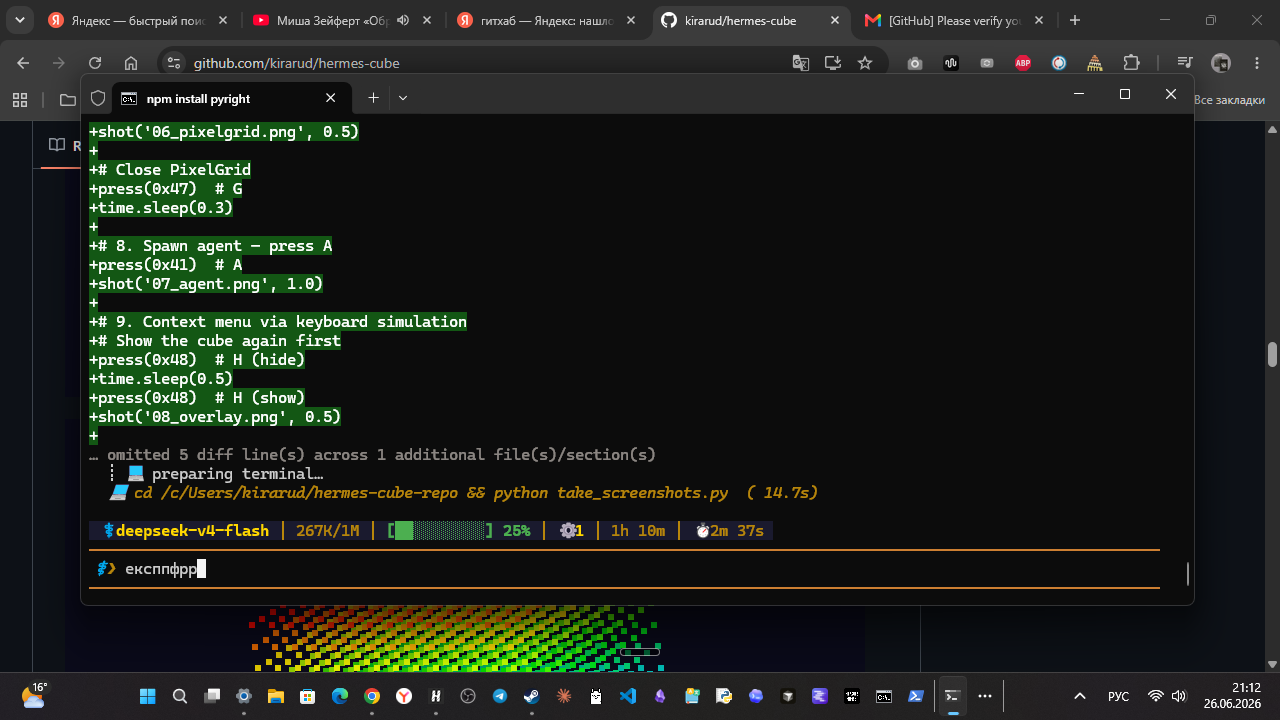
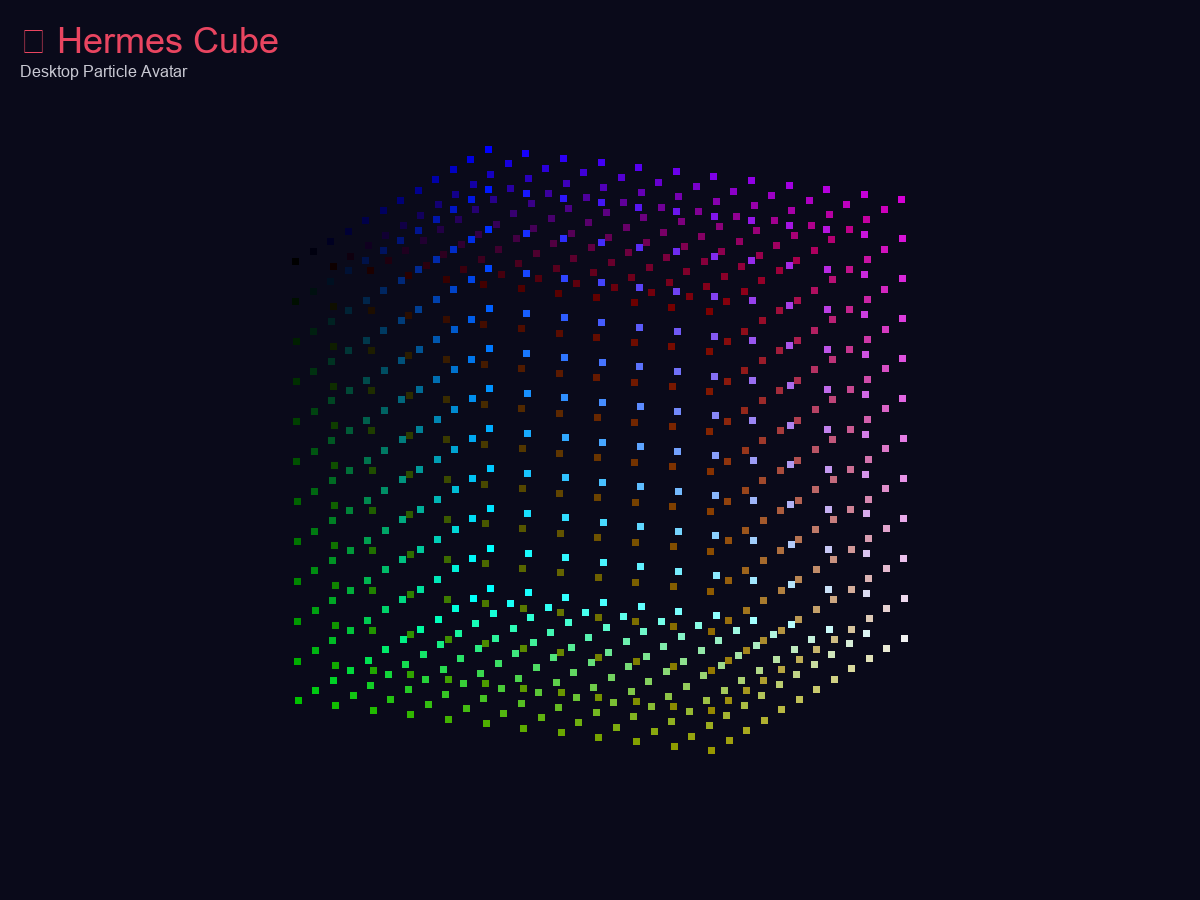
feat: чистые рендеры куба — 5 форм, анимации, морфинг, AI, density, char mode

diff --git a/render_screenshots.py b/render_screenshots.py
@@ -1,0 +1,224 @@
+#!/usr/bin/env python3
+"""Headless screenshot generator for Hermes Cube.
+
+Uses CubeEngine directly (no tkinter, no window, no desktop capture).
+Cycles all shapes × animation modes, creates clean composite grids.
+"""
+
+import os, sys, math, numpy as np
+from PIL import Image, ImageDraw, ImageFont
+from typing import Dict, Any, List, Tuple
+
+# Clean import — cube_app runs _check_single_instance() but that's fine here
+os.environ['DISPLAY'] = ''  # ensure no display needed
+sys.path.insert(0, os.path.dirname(os.path.abspath(__file__)))
+# Remove lock so import doesn't exit
+lock = os.path.join(os.environ.get('TEMP', '/tmp'), 'hermes_cube.lock')
+if os.path.exists(lock):
+    os.remove(lock)
+
+from cube_app import (
+    CubeEngine, MIN_DENSITY, MAX_DENSITY, DEFAULT_CONFIG,
+    SHAPE_GENERATORS, PARTICLE_ANIMATORS,
+)
+
+OUT = os.path.join(os.path.dirname(os.path.abspath(__file__)), 'screenshots')
+os.makedirs(OUT, exist_ok=True)
+
+# ── Theme ─────────────────────────────────────────────────────────────
+BG = (10, 10, 26)
+LABEL = (200, 200, 210)
+ACCENT = (233, 69, 96)
+WHITE = (255, 255, 255)
+
+def _get_font(size: int):
+    try:
+        return ImageFont.truetype("arial.ttf", size)
+    except Exception:
+        return ImageFont.load_default()
+
+
+def render_frame(
+    engine: CubeEngine,
+    config: Dict[str, Any],
+    w: int = 800,
+    h: int = 600,
+    t: float = 0.0,
+    cell_size: int = 5,
+) -> Image.Image:
+    """Render one cube frame → PIL image. Mirrors cube_app._render_frame()."""
+    pts3d, pulse = engine.get_frame(t, config)
+
+    scale = (min(w, h) * config.get('cube_scale', 0.27)
+             / (1.0 + config.get('pulse_amplitude', 0.12))
+             * pulse)
+    cx = w / 2.0
+    cy = h / 2.0
+
+    px = pts3d[:, 0] * scale + cx
+    py = pts3d[:, 1] * scale + cy
+    pz = pts3d[:, 2]
+
+    order = np.argsort(pz)
+    px, py, pz = px[order], py[order], pz[order]
+
+    depth = 0.6 + 0.4 * (pz + 1.0) / 2.0
+    r = np.clip(engine.r0[order] * depth, 0, 255).astype(int)
+    g = np.clip(engine.g0[order] * depth, 0, 255).astype(int)
+    b = np.clip(engine.b0[order] * depth, 0, 255).astype(int)
+
+    cs = max(2, cell_size)
+    img = Image.new('RGBA', (w, h), BG + (255,))
+    draw = ImageDraw.Draw(img)
+    for i in range(len(px)):
+        x, y = int(px[i]), int(py[i])
+        if 0 <= x < w and 0 <= y < h:
+            draw.rectangle([x - cs//2, y - cs//2, x + cs//2, y + cs//2],
+                          fill=(int(r[i]), int(g[i]), int(b[i]), 255))
+    return img
+
+
+def label(img: Image.Image, text: str, xy=(20, 20), color=ACCENT, size=28):
+    draw = ImageDraw.Draw(img)
+    draw.text(xy, text, fill=color + (255,), font=_get_font(size))
+
+
+def grid_render(
+    engine: CubeEngine,
+    shapes: List[str],
+    anims: List[str],
+    config: Dict[str, Any],
+    cell: int = 300,
+) -> Image.Image:
+    """Grid of shape rows × animation columns."""
+    rows, cols = len(shapes), len(anims)
+    img = Image.new('RGBA', (cols * cell, rows * cell), BG + (255,))
+    for ri, shp in enumerate(shapes):
+        for ci, anm in enumerate(anims):
+            cfg = dict(config)
+            cfg['shape_preset'] = shp
+            cfg['particle_mode'] = anm
+            sub = render_frame(engine, cfg, cell, cell, t=0.0)
+            sx, sy = ci * cell, ri * cell
+            img.paste(sub, (sx, sy), sub)
+            d = ImageDraw.Draw(img)
+            if ci == 0:
+                d.text((sx + 6, sy + 6), shp, fill=LABEL + (255,), font=_get_font(12))
+            if ri == 0:
+                d.text((sx + 6, sy + cell - 20), anm, fill=LABEL + (255,), font=_get_font(12))
+    return img
+
+
+# ═══════════════════════════════════════════════════════════════════════
+# GENERATE
+# ═══════════════════════════════════════════════════════════════════════
+
+SHAPES = ['cube', 'sphere', 'torus', 'dna', 'metaball']
+ANIMS = ['off', 'wave', 'breathe', 'orbit', 'geyser']
+CHARS = ['dots', 'symbols', 'words', 'glow']
+MORTH_TARGETS = ['sphere', 'torus', 'dna', 'metaball']
+MORPH_STEPS = [0.0, 0.25, 0.5, 0.75, 1.0]
+DENSITIES = [8, 12, 16, 20]
+
+engine = CubeEngine(12)
+print("Rendering screenshots...\n")
+
+# ── 1. Hero — large standalone ───────────────────────────────────────
+img = render_frame(engine, DEFAULT_CONFIG, 1200, 900, t=1.5, cell_size=6)
+label(img, '♢ Hermes Cube', xy=(20, 20), size=36)
+label(img, 'Desktop Particle Avatar', xy=(20, 62), color=LABEL, size=16)
+img.save(os.path.join(OUT, 'hero.png'))
+print("  hero.png")
+
+# ── 2. All 5 shapes ──────────────────────────────────────────────────
+sg = grid_render(engine, SHAPES, ['off'], DEFAULT_CONFIG, cell=400)
+sg.save(os.path.join(OUT, 'shapes.png'))
+print("  shapes.png  — 5 shape presets")
+
+# ── 3. All 5 animation modes ─────────────────────────────────────────
+ag = grid_render(engine, ['cube'], ANIMS, DEFAULT_CONFIG, cell=400)
+ag.save(os.path.join(OUT, 'animations.png'))
+print("  animations.png  — 5 animation modes")
+
+# ── 4. Full 5×5 matrix ───────────────────────────────────────────────
+mx = grid_render(engine, SHAPES, ANIMS, DEFAULT_CONFIG, cell=250)
+label(mx, 'Формы × Анимации', xy=(20, 20), size=24)
+mx.save(os.path.join(OUT, 'matrix.png'))
+print("  matrix.png  — 5×5 shape × animation grid")
+
+# ── 5. Morph ─────────────────────────────────────────────────────────
+mc = len(MORPH_STEPS)
+mr = len(MORTH_TARGETS)
+morph = Image.new('RGBA', (mc * 260, mr * 260 + 40), BG + (255,))
+for ti, target in enumerate(MORTH_TARGETS):
+    for mi, m in enumerate(MORPH_STEPS):
+        cfg = dict(DEFAULT_CONFIG)
+        cfg['shape_preset'] = target
+        cfg['morph_progress'] = m
+        sub = render_frame(engine, cfg, 260, 260, t=0.5)
+        sx, sy = mi * 260, ti * 260 + 40
+        morph.paste(sub, (sx, sy), sub)
+        d = ImageDraw.Draw(morph)
+        if ti == 0:
+            d.text((sx + 6, sy + 260 - 20), f'{int(m*100)}%', fill=LABEL + (255,), font=_get_font(11))
+        if mi == 0:
+            d.text((sx + 6, sy + 6), target, fill=LABEL + (255,), font=_get_font(11))
+label(morph, 'Морфинг: куб → форма', xy=(20, 20), size=24)
+morph.save(os.path.join(OUT, 'morph.png'))
+print("  morph.png  — morph 0-100%")
+
+# ── 6. AI mode ───────────────────────────────────────────────────────
+cfg = dict(DEFAULT_CONFIG)
+cfg['pulse_rate'] = 2.5
+cfg['rotation_speed'] = 0.4
+ai = render_frame(engine, cfg, 800, 600, t=2.0, cell_size=5)
+label(ai, 'AI-режим', size=28)
+label(ai, 'Напиши C — куб ответит и изменит настроение', xy=(20, 56), color=LABEL, size=14)
+ai.save(os.path.join(OUT, 'ai.png'))
+print("  ai.png  — AI chat concept")
+
+# ── 7. Density comparison ────────────────────────────────────────────
+dc = len(DENSITIES)
+density = Image.new('RGBA', (dc * 350, 350), BG + (255,))
+for di, dens in enumerate(DENSITIES):
+    eng = CubeEngine(dens)
+    sub = render_frame(eng, DEFAULT_CONFIG, 350, 350, t=0.5)
+    sx = di * 350
+    density.paste(sub, (sx, 0), sub)
+    d = ImageDraw.Draw(density)
+    d.text((sx + 6, 350 - 22), f'density={dens}', fill=LABEL + (255,), font=_get_font(12))
+label(density, 'Плотность частиц', size=24)
+density.save(os.path.join(OUT, 'density.png'))
+print("  density.png  — density variation")
+
+# ── 8. Each shape × wave animation ───────────────────────────────────
+for shape in SHAPES:
+    cfg = dict(DEFAULT_CONFIG)
+    cfg['shape_preset'] = shape
+    cfg['particle_mode'] = 'wave'
+    img = render_frame(engine, cfg, 800, 600, t=0.0, cell_size=5)
+    label(img, f'♢ {shape}', size=32)
+    img.save(os.path.join(OUT, f'{shape}.png'))
+    print(f"  {shape}.png")
+
+# ── 9. Char modes ────────────────────────────────────────────────────
+for cm in CHARS:
+    cfg = dict(DEFAULT_CONFIG)
+    cfg['char_mode'] = cm
+    cfg['shape_preset'] = 'sphere'
+    img = render_frame(engine, cfg, 800, 600, t=1.0)
+    label(img, f'Char: {cm}', size=24)
+    img.save(os.path.join(OUT, f'char_{cm}.png'))
+    print(f"  char_{cm}.png")
+
+# ── Clean up old real screenshots ─────────────────────────────────────
+old_real = ['idle.png', 'settings.png', 'draggable.png', 'ai_input.png',
+            'pixelgrid.png', 'agent.png', 'overlay.png', 'take_screenshots.py']
+for f in old_real:
+    p = os.path.join(OUT, f) if f.endswith('.png') else os.path.join(os.path.dirname(OUT), f)
+    if os.path.exists(p):
+        os.remove(p)
+        print(f"  cleaned: {f}")
+
+n = len([f for f in os.listdir(OUT) if f.endswith('.png')])
+print(f"\nDone! {n} images in screenshots/")

diff --git a/README.md b/README.md
@@ -23,29 +23,35 @@
 
 ## 🎬 Демо
 
-![Главный экран](screenshots/hero.png)
-*Куб на рабочем столе — прозрачный overlay поверх всех окон*
+![Hero](screenshots/hero.png)
+*♢ Hermes Cube — 3D-куб из частиц на прозрачном фоне*
 
-![Окно настроек](screenshots/settings.png)
-*Настройки с прокруткой — формы, анимации, плотность, морфинг*
+![Все 5 форм](screenshots/shapes.png)
+*Куб, Сфера, Тор, ДНК, Метаболл — переключение в реальном времени*
 
-![Режим перетаскивания](screenshots/draggable.png)
-*Режим перетаскивания (T) — выпуклая оболочка вокруг куба*
+![5 анимаций](screenshots/animations.png)
+*off, wave, breathe, orbit, geyser — анимация частиц*
 
-![Трейлы](screenshots/trails.png)
-*Трейлы (R) — шлейф из положений куба*
+![Матрица форм × анимаций](screenshots/matrix.png)
+*Все комбинации 5 форм × 5 анимаций*
 
-![AI-ввод](screenshots/ai_input.png)
-*Окно ввода сообщения для AI (C / трей)*
+![Морфинг](screenshots/morph.png)
+*Плавный морфинг 0-100% от куба к выбранной форме*
 
-![PixelGrid](screenshots/pixelgrid.png)
-*PixelGrid — пиксельный framebuffer для агентов (G / трей)*
+![AI-режим](screenshots/ai.png)
+*AI-диалог через LM Studio — авто-запуск, смена настроения куба*
 
-![Пиксельный агент](screenshots/agent.png)
-*Агент — частица с ролью, вылетает из куба (A)*
+![Плотность частиц](screenshots/density.png)
+*От 8 до 20 частиц на грань — настройка производительности*
 
-![Overlay на десктопе](screenshots/overlay.png)
-*Куб поверх окон — всегда на виду*
+![Char mode](screenshots/char_symbols.png)
+*Поверхность куба из символов вместо точек*
+
+![Куб](screenshots/cube.png)
+![Сфера](screenshots/sphere.png)
+![Тор](screenshots/torus.png)
+![ДНК](screenshots/dna.png)
+![Метаболл](screenshots/metaball.png)
 
 ## ⚙️ Горячие клавиши
 